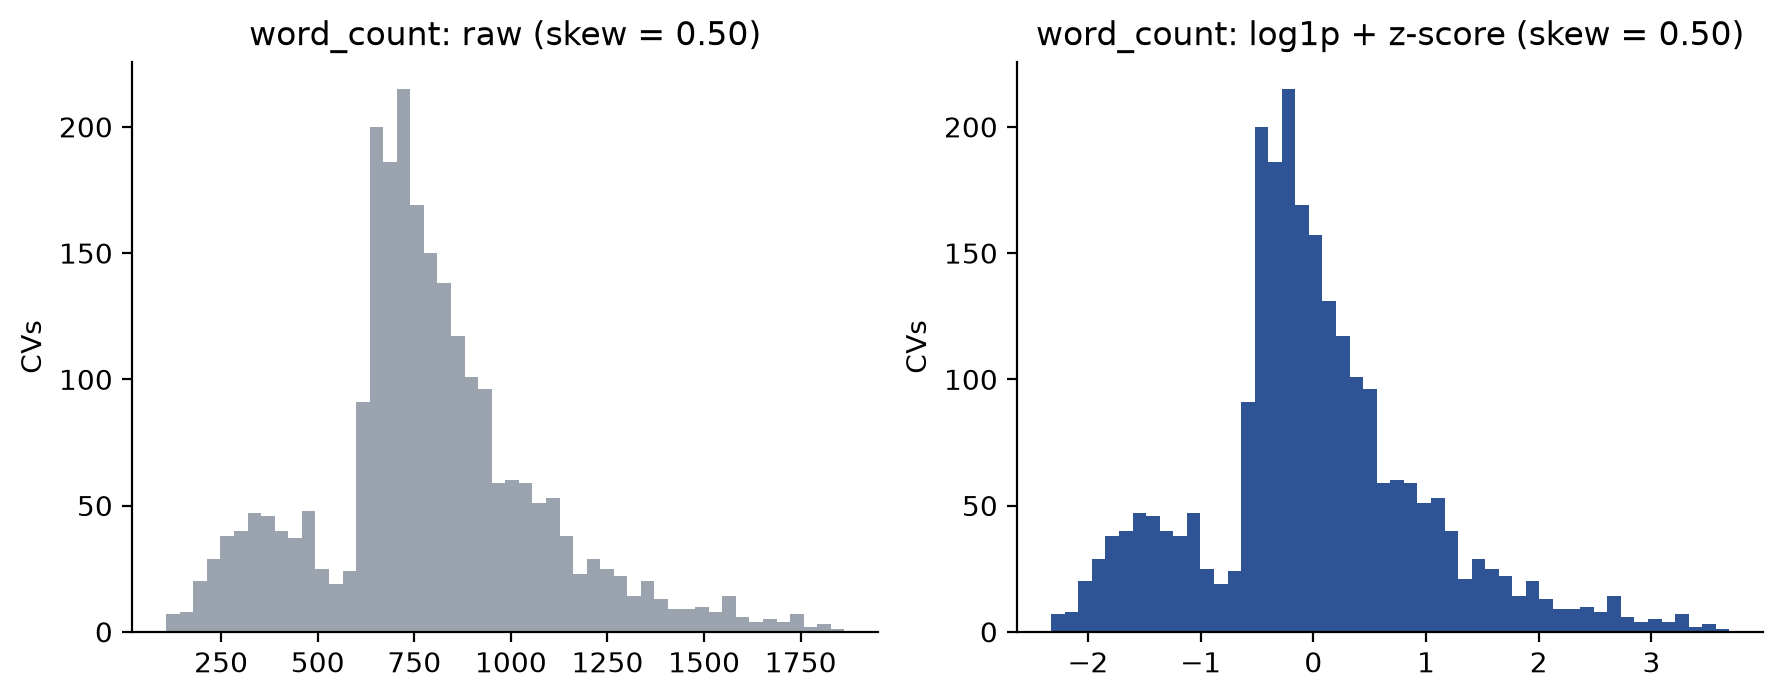
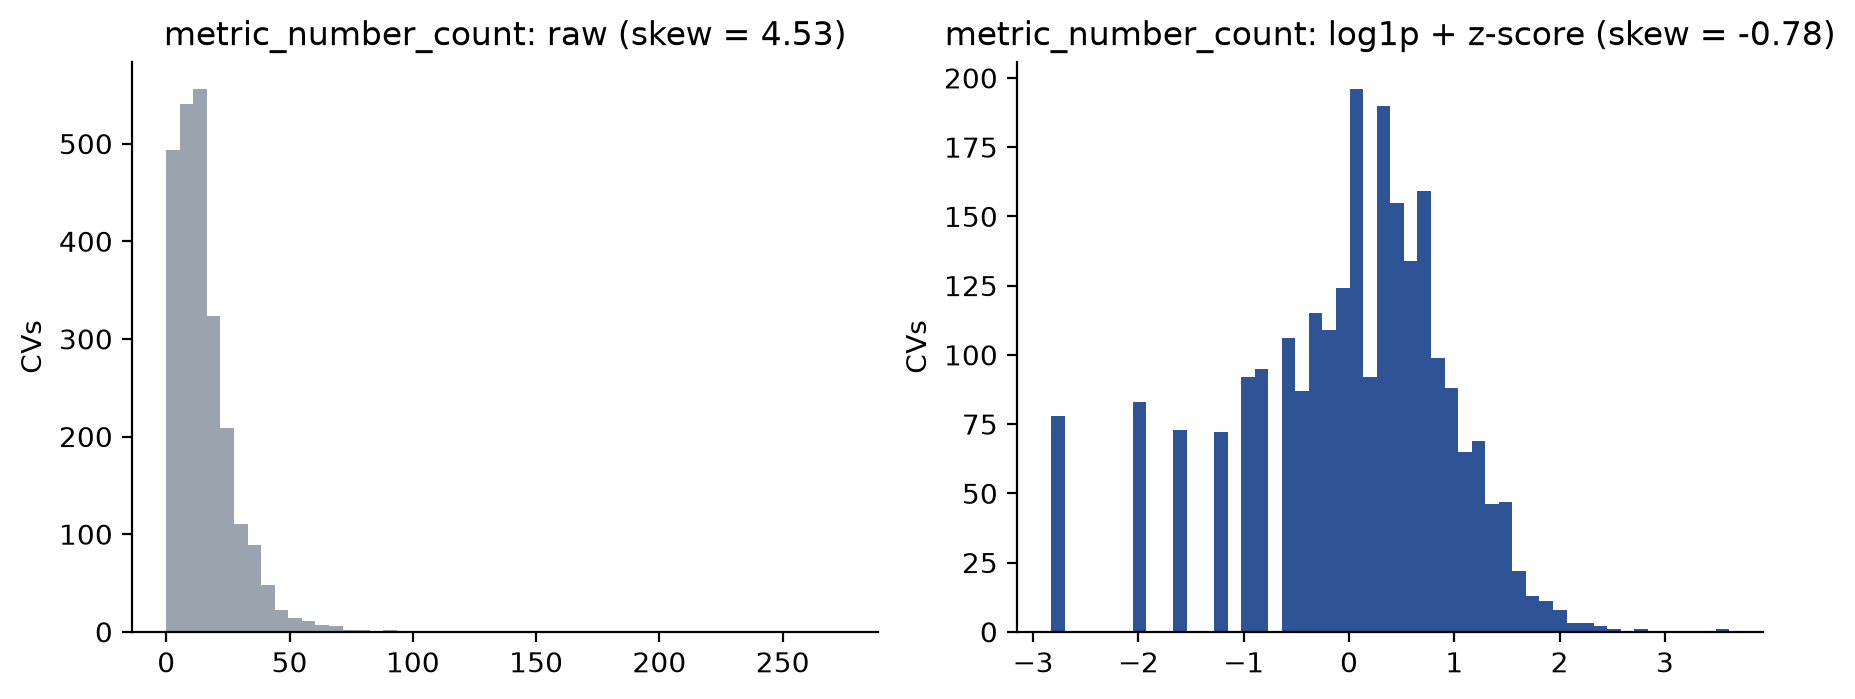
fixed fig9 and eda.py

diff --git a/data_scripts/eda.py b/data_scripts/eda.py
@@ -133,7 +133,7 @@ def fig_skill_gap_preview():
 
 
 def fig_scaling_effect(raw_feat):
-    col = "word_count"
+    col = "metric_number_count"
     raw = raw_feat[col].astype(float)
     z = raw_feat[f"{col}_z"]
     fig, axes = plt.subplots(1, 2, figsize=(9, 3.6))
